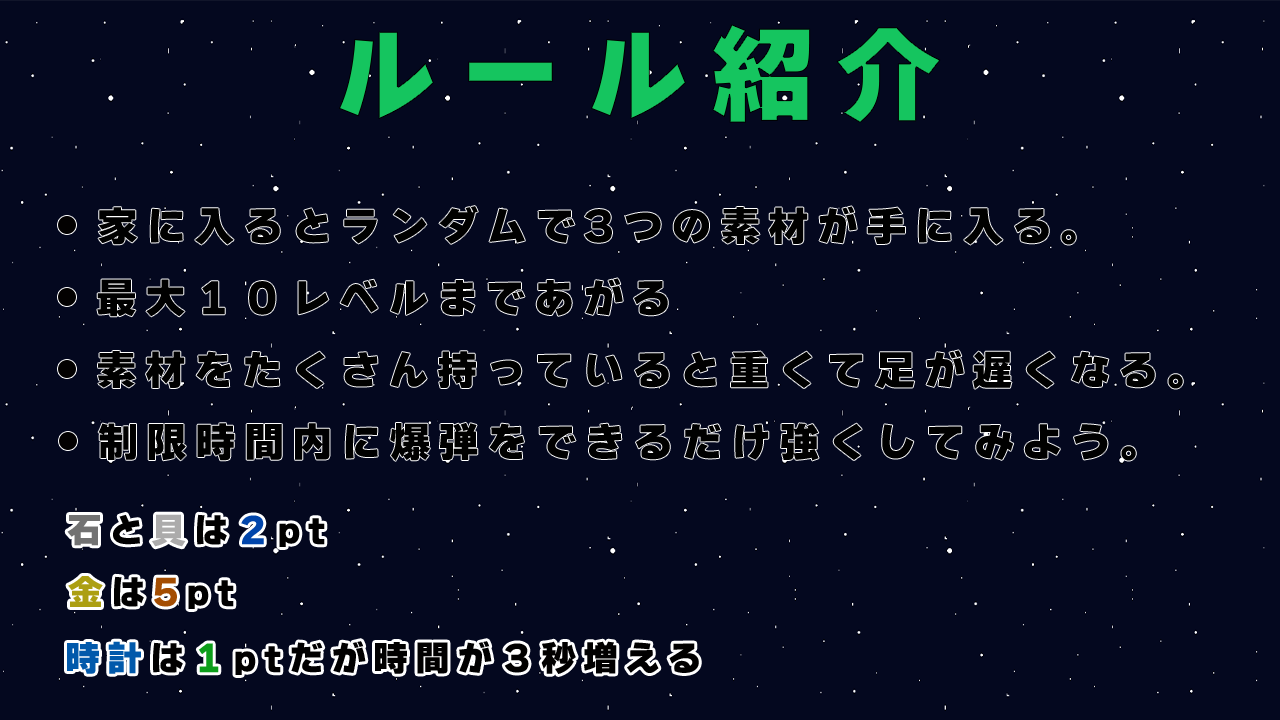
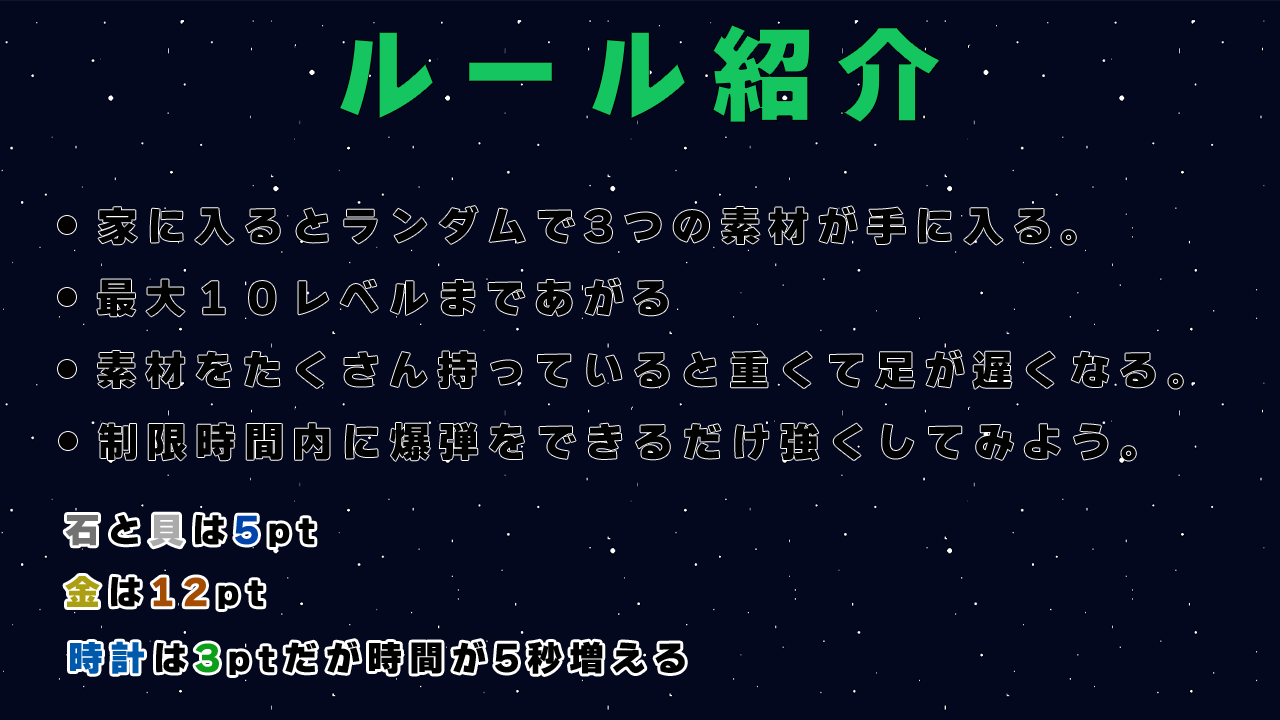
お疲れ様です。

Changed region(s): [[0.0312, 0.8861, 0.5625, 0.9472], [0.0312, 0.7028, 0.2812, 0.7639], [0.0312, 0.7944, 0.2188, 0.8556]]

diff --git a/DirectXGame/Tutorial.cpp b/DirectXGame/Tutorial.cpp
@@ -26,7 +26,7 @@ void Tutorial::TutorialInitialize() {
 
 	input_ = Input::GetInstance();
 
-	ButtonCoolDown_ = 60;
+	ButtonCoolDown_ = 30;
 	//0
 	isTuorial_[0] = true;
 
@@ -52,7 +52,7 @@ void Tutorial::TutorialUpdate() {
 				isTuorial_[1] = true;
 				isTuorial_[2] = false;
 				isTuorial_[3] = false;
-				ButtonCoolDown_ = 60;
+				ButtonCoolDown_ = 30;
 				isView_ = true;
 			}
 		}
@@ -63,14 +63,14 @@ void Tutorial::TutorialUpdate() {
 				isTuorial_[1] = false;
 				isTuorial_[2] = true;
 				isTuorial_[3] = false;
-				ButtonCoolDown_ = 60;
+				ButtonCoolDown_ = 30;
 				isView_ = false;
 			}
 		}
 		if (joyState.Gamepad.wButtons == XINPUT_GAMEPAD_A && isTuorial_[2] == true) {
 			if (ButtonCoolDown_ <= 0) {
 				isTuorial_[2] = false;
-				ButtonCoolDown_ = 60;
+				ButtonCoolDown_ = 30;
 				isTutorialEnd_ = true;
 			}
 		}
@@ -83,7 +83,7 @@ void Tutorial::TutorialUpdate() {
 				isTuorial_[2] = false;
 				isTuorial_[1] = false;
 				isTuorial_[0] = false;
-				ButtonCoolDown_ = 60;
+				ButtonCoolDown_ = 30;
 			}
 		}
 		if (joyState.Gamepad.wButtons == XINPUT_GAMEPAD_A && isTuorial_[3] == true) {
@@ -101,7 +101,7 @@ void Tutorial::TutorialUpdate() {
 			isTuorial_[1] = true;
 			isTuorial_[2] = false;
 			isTuorial_[3] = false;
-			ButtonCoolDown_ = 60;
+			ButtonCoolDown_ = 30;
 			isView_ = true;
 		}
 	}
@@ -112,14 +112,14 @@ void Tutorial::TutorialUpdate() {
 			isTuorial_[1] = false;
 			isTuorial_[2] = true;
 			isTuorial_[3] = false;
-			ButtonCoolDown_ = 60;
+			ButtonCoolDown_ = 30;
 			isView_ = false;
 		}
 	}
 	if (input_->TriggerKey(DIK_SPACE) && isTuorial_[2] == true) {
 		if (ButtonCoolDown_ <= 0) {
 			isTuorial_[2] = false;
-			ButtonCoolDown_ = 60;
+			ButtonCoolDown_ = 30;
 			isTutorialEnd_ = true;
 		}
 	}
@@ -132,7 +132,7 @@ void Tutorial::TutorialUpdate() {
 			isTuorial_[2] = false;
 			isTuorial_[1] = false;
 			isTuorial_[0] = false;
-			ButtonCoolDown_ = 60;
+			ButtonCoolDown_ = 30;
 		}
 	}
 	if (input_->TriggerKey(DIK_SPACE)&& isTuorial_[3] == true) {
@@ -173,7 +173,7 @@ void Tutorial::RoopInitilize() {
 		isPush[i] = false;
 	}
 
-	ButtonCoolDown_ = 60;
+	ButtonCoolDown_ = 30;
 	// 0
 	isTuorial_[0] = true;
 	isTutorialEnd_ = false;

diff --git a/DirectXGame/scene/GameScene.cpp b/DirectXGame/scene/GameScene.cpp
@@ -427,6 +427,9 @@ void GameScene::Update() {
 				}
 			}
 		}
+		// 時間更新
+		time--;
+		timer_->Update(time);
 		break;
 	}
 	
@@ -474,9 +477,7 @@ void GameScene::Update() {
 
 	
 
-	//時間更新
-	time--;
-	timer_->Update(time);
+	
 
 	if (time <= 0) {
 		clearFlag = true;
@@ -587,6 +588,7 @@ void GameScene::MaterialReset() {
 
 void GameScene::Draw() {
 
+
 	// コマンドリストの取得
 	ID3D12GraphicsCommandList* commandList = dxCommon_->GetCommandList();
 
@@ -602,6 +604,7 @@ void GameScene::Draw() {
 	Sprite::PostDraw();
 	// 深度バッファクリア
 	dxCommon_->ClearDepthBuffer();
+
 #pragma endregion
 
 #pragma region 3Dオブジェクト描画
@@ -716,17 +719,16 @@ void GameScene::Draw() {
 
 		break;
 	case Stage::kTown:
-		
-
+		// 時間表示
+		timer_->Draw();
+		if (isFade == true) {
+			fadeSprite_->Draw();
+		}
 
 		break;
 	}
 	
-	// 時間表示
-	timer_->Draw();
-	if (isFade == true) {
-		fadeSprite_->Draw();
-	}
+	
 
 	// ゲームパッドの状態を得る変数
 	//XINPUT_STATE joyState;
@@ -2030,7 +2032,7 @@ void GameScene::MaterialCheckCollisions() {
 				addTimeColor_.w = 1.0f;
 				jushiCount_++;
 				playget_ = audio_->PlayWave(getHandle_, false, 0.5);
-				time += 180;
+				time += 300;
 
 				jushi->SetIsExclamation(false);
 				

diff --git a/DirectXGame/TitleScene.cpp b/DirectXGame/TitleScene.cpp
@@ -63,7 +63,7 @@ void TitleScene::Initialize() {
 	
 	isLule_ = false;
 	// ボタンクールダウン
-	ButtonCoolDown_=60;
+	ButtonCoolDown_=30;
 }
 
 void TitleScene::Update() {
@@ -75,8 +75,7 @@ void TitleScene::Update() {
 		if (subTitleColor2_.w >= 1.0f) {
 			if (joyState.Gamepad.wButtons & XINPUT_GAMEPAD_A){
 				
-					isPush_ = true;
-					
+				isPush_ = true;
 			}	
 		}
 	}
@@ -97,9 +96,6 @@ void TitleScene::Update() {
 	if (fadeTimer_ <= 0) {
 		isSceneEnd_ = true;
 	}
-
-	/*if /*
-
 
 	if (joyState.Gamepad.wButtons & XINPUT_GAMEPAD_X && fadeTimerFlag_ == false) {
 		isLule_ = true;
@@ -212,6 +208,8 @@ void TitleScene::SceneReset() {
 	fadeTimerFlag_ = false;
 	fadeTimer_ = kFadeTimer_;
 	isPush_ = false;
+	// ボタンクールダウン
+	ButtonCoolDown_ = 30;
 }
 
 void TitleScene::BGMReset() { 

diff --git a/DirectXGame/Player.cpp b/DirectXGame/Player.cpp
@@ -704,16 +704,6 @@ void Player::MotionJumpUpdate() {
 }
 
 void Player::MotionAxeUpdate() {
-	// ゲームパッドの状態を得る変数
-	XINPUT_STATE joyState;
-
-	if (Input::GetInstance()->GetJoystickState(0, joyState)) {
-		//モーション
-		if (useAxe_ == true && joyState.Gamepad.wButtons == XINPUT_GAMEPAD_X) {
-			    motionRequest_ = Motion::kAxe;
-		}
-		
-	}
 
 }
 

diff --git a/DirectXGame/BommEnhance.cpp b/DirectXGame/BommEnhance.cpp
@@ -81,10 +81,10 @@ void BommEnhance::Initialize() {
 }
 
 void BommEnhance::Update(int stone, int gold, int jushi, int shell) {
-	exp += stone * 2;
-	exp += gold * 5;
-	exp += jushi * 1;
-	exp += shell * 2;
+	exp += stone * 5;
+	exp += gold * 12;
+	exp += jushi * 3;
+	exp += shell * 5;
 
 	while (exp >= expMax[bommLv]) {
 		exp -= expMax[bommLv];

diff --git a/DirectXGame/scene/GameScene.h b/DirectXGame/scene/GameScene.h
@@ -350,7 +350,7 @@ private: // メンバ変数
 	uint32_t PowerUpTutorialHandle_[2];
 	// ボタンクールダウン
 	int ButtonCoolDown_;
-
+	int WindowCoolDown_;
 	/// <summary>
 	/// ゲームシーン用
 	/// </summary>

diff --git a/DirectXGame/audio/Audio.h b/DirectXGame/audio/Audio.h
@@ -30,7 +30,7 @@ public:
 	// 再生データ
 	struct Voice {
 		uint32_t handle = 0u;
-		IXAudio2SourceVoice* sourceVoice = nullptr;
+		IXAudio2SourceVoice * sourceVoice = nullptr;
 	};
 
 	/// <summary>

diff --git a/DirectXGame/BommEnhance.h b/DirectXGame/BommEnhance.h
@@ -39,7 +39,7 @@ private:
 	// 数字の画像の読み込み
 	uint32_t numHandle_[10];
 
-	Sprite* textureMaxexp_[3];
+	Sprite * textureMaxexp_[3];
 
 	uint32_t slashHandle_;
 	Sprite* textureSlash_;

diff --git a/DirectXGame/Tutorial.h b/DirectXGame/Tutorial.h
@@ -51,6 +51,7 @@ private:
 
 	bool isPush[4];
 
+	// インプット
 	Input* input_ = nullptr;
 
 };
